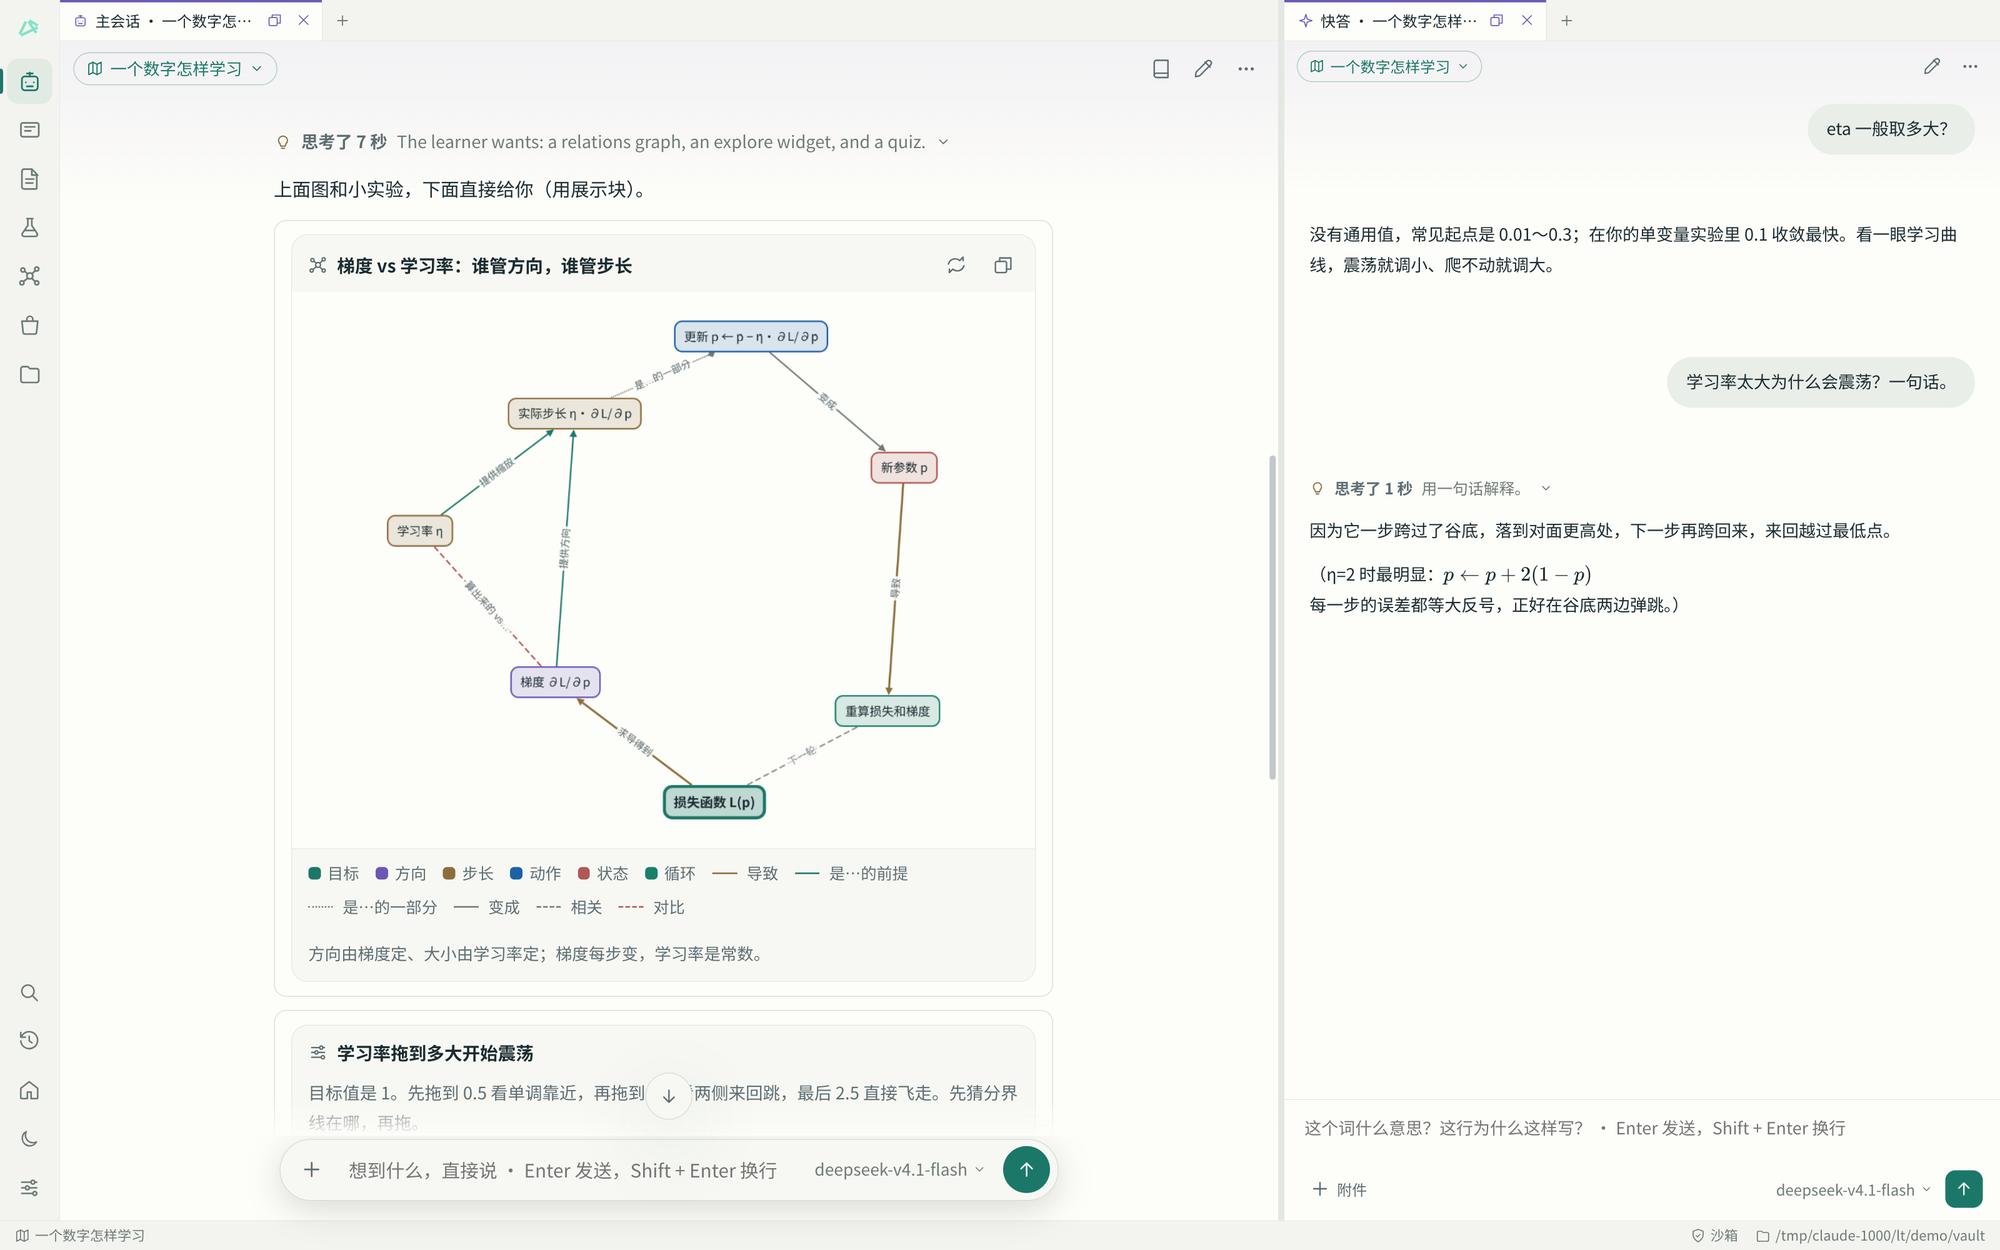
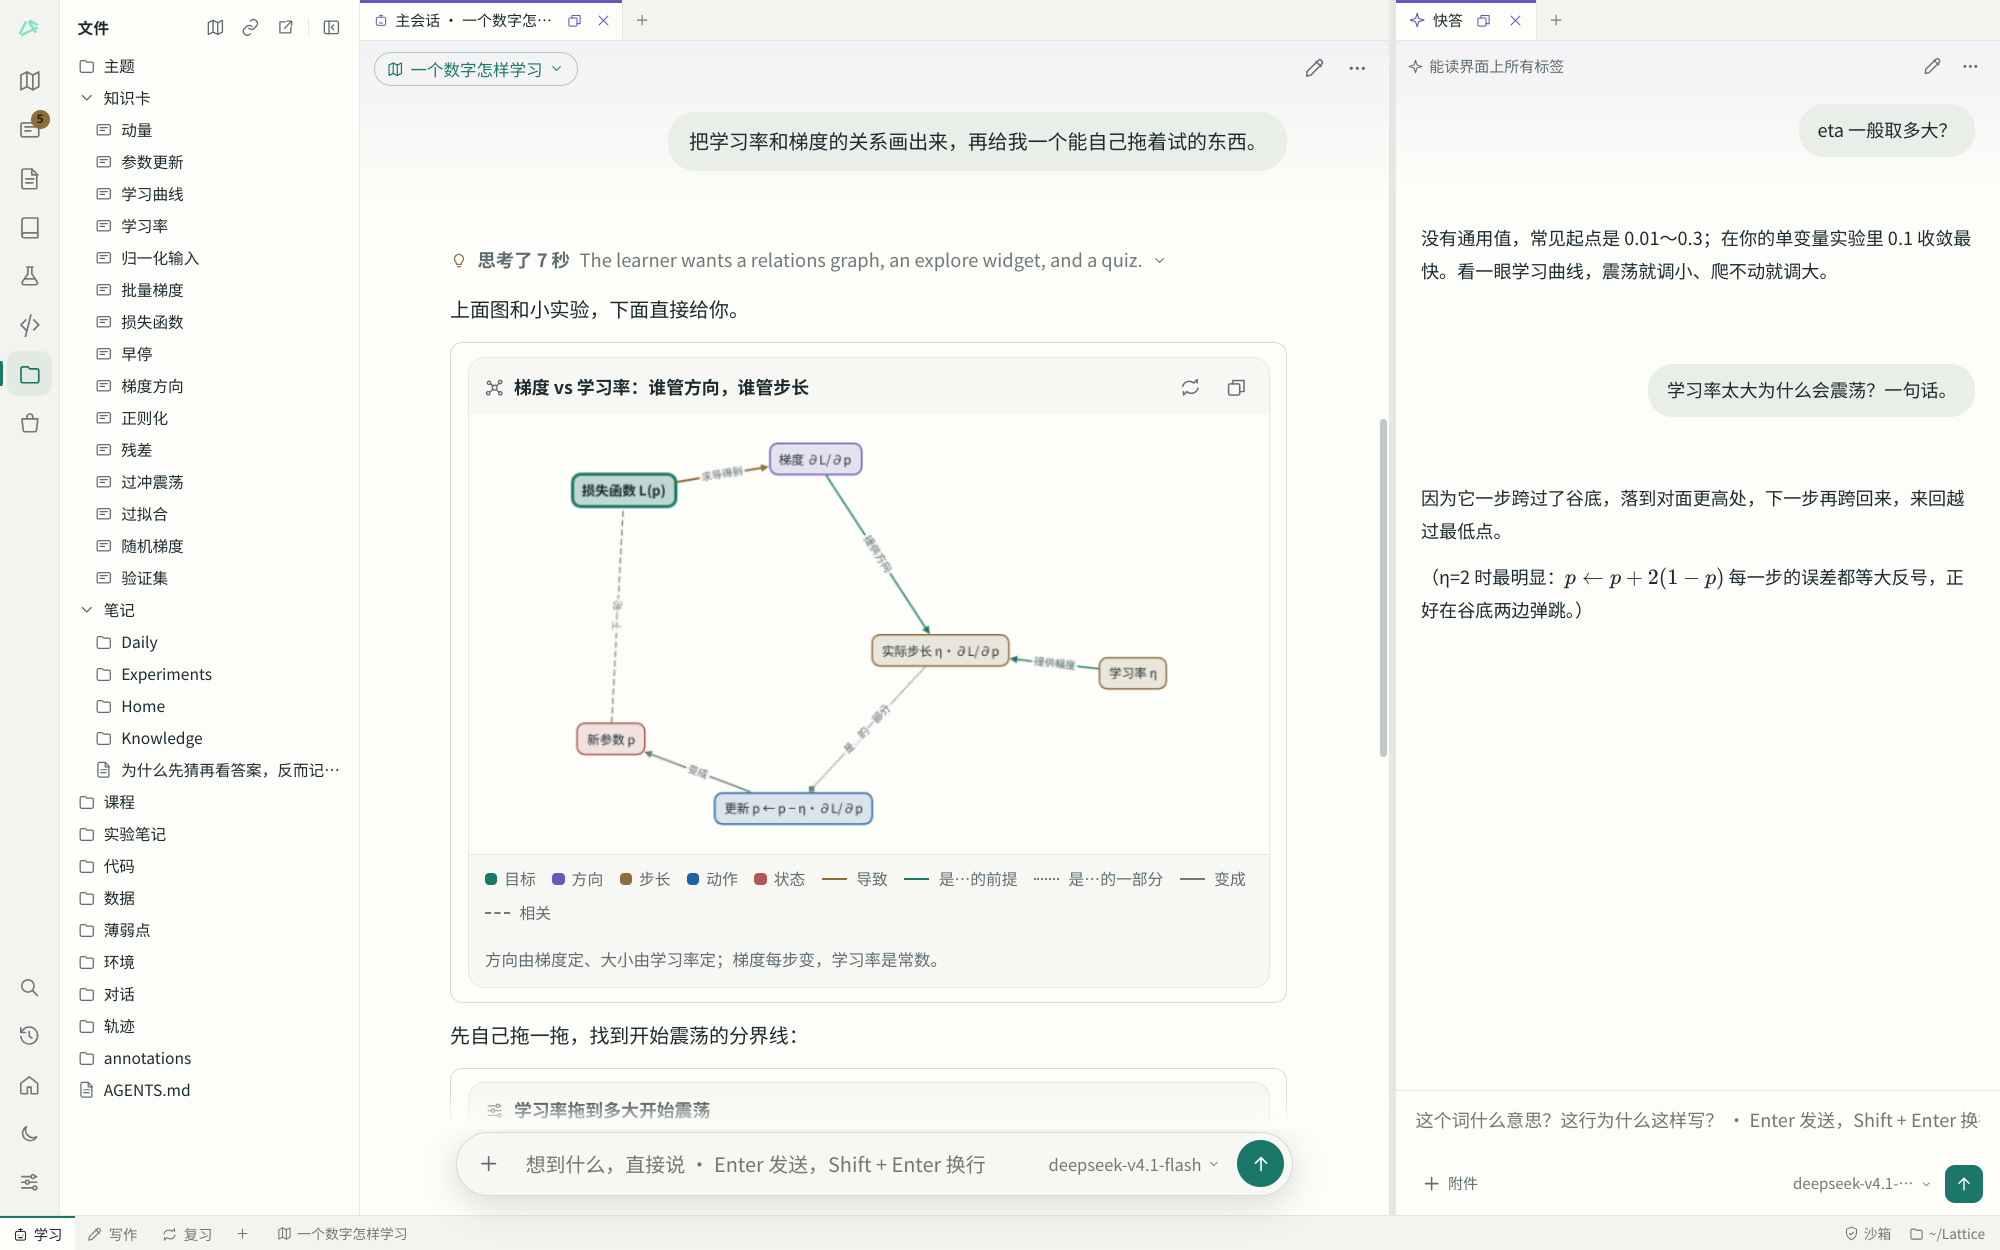
Get ready for 0.2.0: the version, release notes, and screenshots of the new interface

diff --git a/lattice/__init__.py b/lattice/__init__.py
@@ -1,3 +1,3 @@
 # Lattice's version. A release is tagged v<this>; the Windows build checks the tag against it and stamps builds between
 # releases as <this>-dev.<build number>.
-__version__ = "0.1.1"
+__version__ = "0.2.0"

diff --git a/docs/releases/v0.2.0.md b/docs/releases/v0.2.0.md
@@ -1,0 +1,56 @@
+这个版本重新整理了界面：一切都是标签页，左栏只负责浏览和打开，底栏负责切换窗口组合。同时加入了读电子书和批注，并修掉了一个会丢对话的问题。
+
+![开着主会话翻文件，底栏切换学习、写作、复习](https://raw.githubusercontent.com/vimalinx/lattice/main/docs/screenshots/conversation.png)
+
+## 安装
+
+- **Windows**：下载 `Lattice-0.2.0-setup.exe` 安装，或者下载 `Lattice-0.2.0-windows-x64.zip` 解压后运行 `Lattice.exe`。安装包没有代码签名，第一次运行时 SmartScreen 会拦一下：点「更多信息」→「仍要运行」。
+- **Linux**：从源码运行，见 [README 的快速开始](https://github.com/vimalinx/lattice#快速开始)。
+
+## 新界面：标签页、左栏和工作状态
+
+- **左栏不再换掉整个界面。** 活动栏的图标只换左栏里的列表，主体的窗口一动不动，开着主会话也能翻文件夹、笔记和知识卡。
+- **工作状态。** 底栏的每个标签是一套窗口组合：学习、写作、复习、阅读……切走时原样留着，切回来还是那样。它只管窗口，左栏、外观和学习主题不跟着变。
+- **写作模板。** 一大块笔记，旁边是大纲与链接，没有 AI，想专心写的时候用。
+- **模板和当前界面分开。** 底栏的「＋」从模板或空白新建，之后怎么改都不影响模板。标签上右键能改名、复制、存成自己的模板、关闭；关闭不会丢布局，随时能重新打开。
+- **在工作状态之间传窗口。** 鼠标停在底栏标签上，会列出里面的窗口，点一下就跳过去；拖到别的标签上是移动，按住 Ctrl 拖是复制，拖动时经过哪个标签就显示哪个的列表。
+- **AI 不再动你眼前的界面。** 你切走以后，它打开或摆放的窗口留在原来的工作状态里，答完时底栏的标签上亮一个点。
+
+- **回复里的文件名能点。** AI 提到的文件只要确实存在，就显示成带下划线的链接，点一下打开。
+
+## 读书和批注
+
+- **在 Lattice 里读电子书**：PDF、EPUB、MOBI、AZW3、FB2、CBZ 都能直接打开，有目录和全书搜索，关掉再开回到上次的位置。书没打开时 AI 也能按页或按章读。
+- **批注**：在书、笔记、代码、实验笔记、网页和对话里选中文字，就能高亮或写批注。所有批注集中在「批注」窗口，能搜索，点一下回到原处，也能做成带出处的知识卡。
+- **AI 也会批注**：讲到原文时它会在旁边留批注，你可以撤销；不想要的话跟它说一声，或者在设置里改成只在你要求时才留。
+- **问过的话留在原处**：选中文字问快答后，那段话变成带下划线的挂载点，快答关了也还在，点开就能看问答。
+
+## 修复
+
+- **对话不会再丢。** 现在 AI 运行命令之前，会先把对话和学习轨迹存进学习库的历史；就算之后的检查判断失误、把文件退回上一次提交，也丢不了这些内容。
+- **改标题后文件名立刻跟上。** 文件本来就会跟着标题改名，但标签、路径栏和左栏还显示旧名字，现在同时更新，也不打断打字。
+- **选中文字时，高亮不再超出正文两边。** 笔记、知识卡、主题页和技能编辑器都修了。
+- 窄左栏里的标题不再折行，空区域里的「不要这一块」按钮恢复了正常样式。
+
+## 改进
+
+- 每轮固定的内容放在请求前面，支持缓存的模型服务能省下这部分用量。
+- 思考强度放到了模型名字旁边。
+- 布局变化时电子书不再重新加载。
+
+## 升级时会变的地方
+
+- 原来的工作区会自动转换。开着文件的留在底栏，其余收进「＋」的「已关闭」，布局都在。名字换成按用途的「学习」「复习」等，你改过的名字不变。
+- **快捷键变了**：Ctrl+1～8 现在换左栏列表，Ctrl+Shift+1～9 切工作状态。
+- 左栏的「搜索」列表去掉了，搜索统一用 Ctrl+K。
+- 「恢复默认」去掉了，需要原来的样子时从模板新建。
+
+## 已知问题
+
+- Windows 版没有沙箱：AI 的命令和运行用你的权限直接执行（状态栏显示「直接运行」），学习库里的改动照样记进历史、可以撤销。
+- Linux 沙箱联网偶尔会卡住一次请求，重试即可。
+- 导入目前只支持 ChatGPT 的分享链接。
+- 有 DRM 的书打不开；扫描版 PDF 没有文字层，你能看，AI 读不出字。
+- Linux 还没有打包好的安装方式。
+
+有问题或建议欢迎在 [Issues](https://github.com/vimalinx/lattice/issues) 里说。
